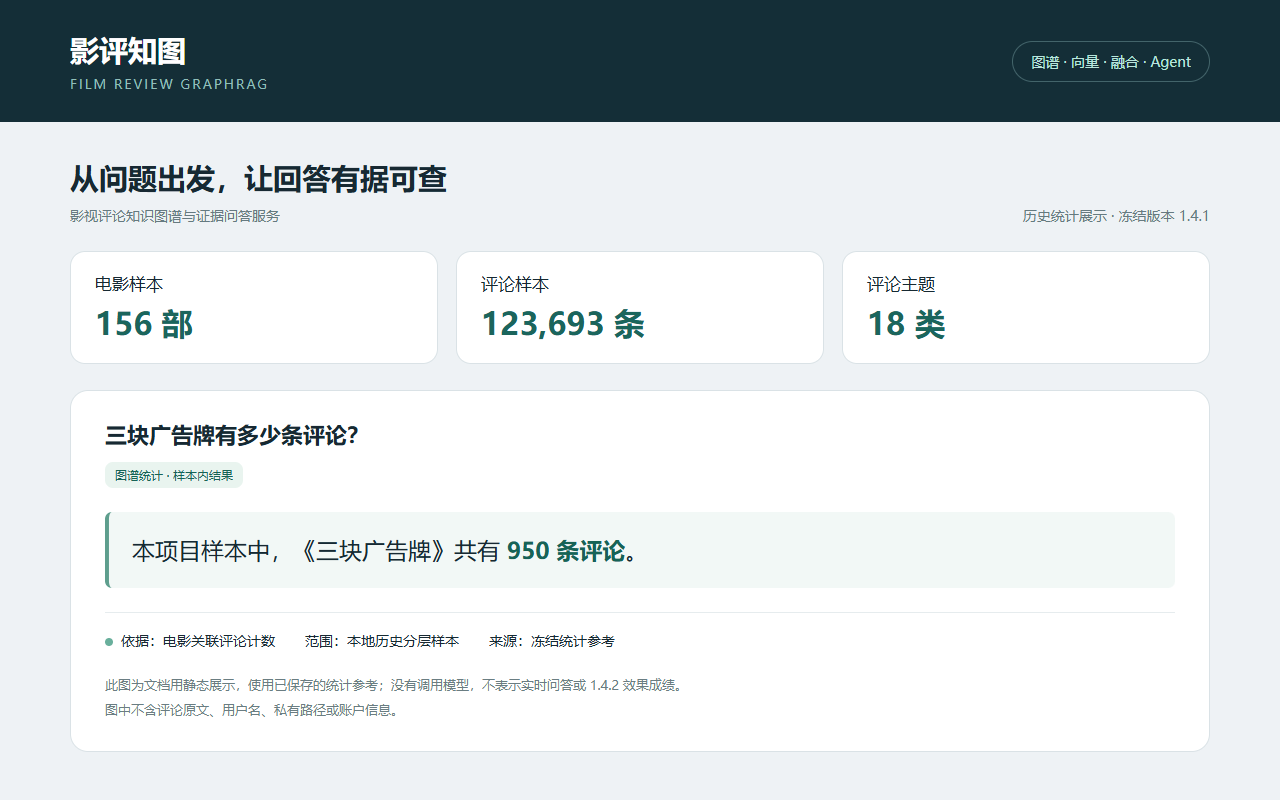
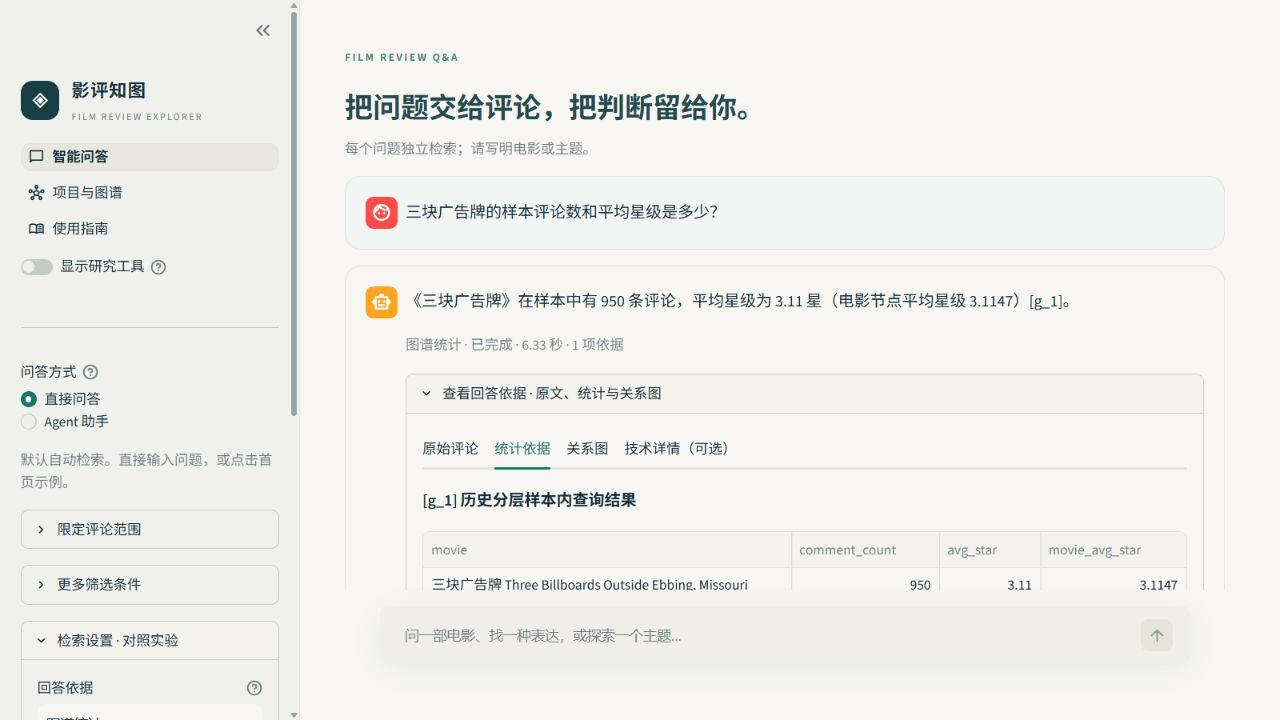
docs: polish public README

diff --git a/scripts/assisted_review.py b/scripts/assisted_review.py
@@ -118,7 +118,7 @@ def build_dataset():
               'selection': '168 QA + 60 Agent + 140 repair 0/2 + 108 short followups + 42 long followups',
               'queue_rules': 'all medium/low, needs_human, P, judge/assistant disagreements, known ambiguous cases, and fixed blind sample; never overwrite human files',
               'judge_model': Settings().deepseek_model, 'temperature': 0, 'max_tokens': 1100,
-              'provider_note': 'DeepSeek same-provider advisory judge, then Codex targeted audit; neither is a human score',
+              'provider_note': 'DeepSeek same-provider advisory judge, then targeted coding-assistant audit; neither is an independent human score',
               'code_sha256': file_hash(Path(__file__))}
     return records, config
 
@@ -234,7 +234,7 @@ def summarize(out=OUT):
             queue.append('序号与真实作者引用需核对')
         audit = overrides.get(record['key'], {})
         if audit.get('needs_human'):
-            queue.append('Codex复查需最终裁定')
+            queue.append('代码助手复查需最终裁定')
         if audit.get('grade') and audit['grade'] != assessment.get('grade'):
             queue.append('两次AI判断有分歧')
         labels.append({'key': record['key'], 'kind': record['kind'], 'mode': record['mode'],
@@ -255,7 +255,7 @@ def summarize(out=OUT):
                'usage': dict(usage), 'by_group': {f'{kind}/{mode}': dict(Counter(r['ai_grade'] or 'pending' for r in labels if r['kind'] == kind and r['mode'] == mode)) for kind, mode in sorted({(r['kind'], r['mode']) for r in labels})}}
     (out / 'summary.json').write_text(json.dumps(summary, ensure_ascii=False, indent=2), encoding='utf-8')
     lines = ['# AI辅助初评 · 待人工最终复核', '', f"已初评 {summary['ai_scored']}/518；待复核/抽查 {summary['needs_human']} 项（其中预先分层抽查 {summary['blind_sample']}）。", '',
-             '评分来源：项目配置的DeepSeek批量初评，Codex定向复查；全部属于AI判断。人工评分未完成，不能作为逐题人工准确率。原人工标签保持原样。', '',
+             '评分来源：DeepSeek批量初评，加代码助手定向复查；全部属于AI判断。作者复核尚未完成，不能作为逐题人工准确率。原人工标签保持原样。', '',
              '打开辅助复核页面可按疑难/抽查筛选，逐项确认或修改分数；原答案、完整证据、参考事实和历史均可展开。', '',
              '## 分组AI建议分布（不是人工准确率）', '', '|组别|Y|P|N|未评|', '|---|---:|---:|---:|---:|']
     for group, counts in summary['by_group'].items():

diff --git a/scripts/report_retrieval.py b/scripts/report_retrieval.py
@@ -114,7 +114,7 @@ def summarize(run):
     if summary_data['human_complete']:
         title='# 独立检索组件基线（人工复核完成）'
         batch_confirmed=any(row.get('confirmation_source')=='user_chat_batch_acceptance' for row in labels)
-        provenance=('评分由Codex/Sol提供，用户于2026年10月19日在聊天中确认整批接受，按AI辅助、人工确认口径报告；不是132项独立逐条人工评分，也未记录为网页逐项签认。' if batch_confirmed else '相关性分数已由评分人保存确认；若使用AI辅助，须保留对应评分来源。')
+        provenance=('相关性评分由代码助手初评，作者整批确认；按AI辅助、人工确认口径报告，不是132项独立逐条人工评分。' if batch_confirmed else '相关性分数已由评分人保存确认；若使用AI辅助，须保留对应评分来源。')
     elif summary_data['has_ai_pending']:
         title='# 独立检索组件基线（AI初评，待人工复核）'
         provenance='当前P@5/nDCG为AI建议分计算的预览值，不能表述为人工结果；逐题确认后报告会更新。'
@@ -131,7 +131,7 @@ def summarize(run):
         n='暂无完整评分' if row['candidate_pool_ndcg_at_5'] is None else f"{row['candidate_pool_ndcg_at_5']:.3f}"
         lines.append(f"| {row['mode']} | {row['scored_positions']}/{row['returned_positions']} | {row['human_scored']}/{row['returned_positions']} | {row['review_state']} | {p} | {n} | {row['facet_violation_positions']} | {row['empty_questions']} | {row['mean_vector_component_seconds']:.3f}/{row['mean_graph_candidate_seconds']:.3f} |")
     lines += [
-        '',f"去重题目/评论组合：{summary_data['unique_query_comment_pairs_to_review']}；200个候选位置各自保留来源，评分表区分网页保存和用户聊天整批确认。",'',
+        '',f"去重题目/评论组合：{summary_data['unique_query_comment_pairs_to_review']}；200个候选位置各自保留来源，评分表保留逐项保存与整批确认的来源区别。",'',
         '完全相关P@5只把2分计为相关；缺失位置计0。nDCG的理想排序由已返回候选构成，仅反映该候选集合的排序，不声称全库nDCG或Recall。','',
         '先看多条件语义的失误原因，再决定是否在相同候选和同一标签上进行CPU小模型重排对照。不得据时间、非空结果或词命中宣称重排提高了相关性。',
     ]

diff --git a/scripts/finalize_assisted_review.py b/scripts/finalize_assisted_review.py
@@ -78,10 +78,10 @@ def finalize():
     (OUT / 'summary.json').write_text(json.dumps(summary, ensure_ascii=False, indent=2), encoding='utf-8')
     lines = ['# 1.4.1 AI辅助评分与30份人工抽查', '',
              f"AI初评 {summary['ai_scored']}/518；已有人工评分 {summary['existing_human_preserved']} 份原样保留；本次需随机审核30份。", '',
-             '评分来自DeepSeek初评与Codex定向检查；尚未由用户完成本次抽查和最终签认。不得称为全量逐题人工测评。', '',
+             '评分来自DeepSeek初评与代码助手定向复查；作者尚未完成本次抽查和最终确认。不得称为全量逐题人工测评。', '',
              '抽查不按分数或是否成功挑选。按实验类别/模式分层，种子与记录清单已固定；用户缩小抽查范围发生在评分进行中，已如实登记。', '',
              '若抽查发现实质错误，先检查同类评分并修正；必要时扩展该类抽查，不为凑一致率改人工判断。30份只能作为抽查验证，不能证明其余所有分数正确。', '',
-             '原有123份人工分数优先保留于最终综合表；AI不同判断另列，原标签不覆盖。其余未逐题复核的建议分数，只有用户签认后才标为接受的AI评分。', '',
+             '原有123份人工分数优先保留于最终综合表；AI不同判断另列，原标签不覆盖。其余未逐题复核的建议分数，只有作者确认后才标为接受的AI评分。', '',
              '推荐论文口径：“采用AI辅助评分与人工审核相结合的综合评测，对新增AI评分随机抽查30份，并保留既有人工标签。”明确报告各部分数量，综合分数不冒充独立人工准确率。', '',
              '## AI建议分布', '', '|组别|Y|P|N|未评|', '|---|---:|---:|---:|---:|']
     for group, counts in summary['by_group'].items():

diff --git a/README.md b/README.md
@@ -1,51 +1,70 @@
 # 影评知图 · Film Review GraphRAG
 
-将影视评论知识图谱、语义检索与工具调用连接成可追溯的问答服务。
+[![tests](https://github.com/Phoeehnn/film-review-graphrag/actions/workflows/tests.yml/badge.svg?branch=main)](https://github.com/Phoeehnn/film-review-graphrag/actions/workflows/tests.yml?query=branch%3Amain)
+![Python](https://img.shields.io/badge/Python-3.11-3776AB?logo=python&logoColor=white)
+![Neo4j](https://img.shields.io/badge/Neo4j-Graph%20%2B%20Vector-4581C3?logo=neo4j&logoColor=white)
+![FastAPI](https://img.shields.io/badge/FastAPI-SSE-009688?logo=fastapi&logoColor=white)
 
-**代码供阅读与展示，数据不随仓库提供。** 当前公开导出版本：**1.4.2**。本仓库暂未添加许可证。
+**让影评里的观点，变成有据可查的回答。**
 
-![统计结果展示](assets/statistics-demo.png)
+基于历史影评构建的知识图谱问答服务：问题自动分流到图谱统计、语义检索或两者融合，回答附带可追溯的 Cypher 查询、统计行或评论证据。
 
-上图是文档用静态统计展示，数值来自冻结1.4.1样本参考，没有实时调用模型，也不表示1.4.2效果成绩。图中没有用户名或评论原文。
+**本科毕业设计扩展版本。** 在原有主题建模、双层情感分析和知识图谱基础上，新增混合检索与规则路由、六工具 Agent、多轮会话、Text-to-Cypher 安全检查与有界自纠错、FastAPI/SSE 服务、Docker 部署和版本化评测。
 
-## 能做什么
+**技术栈：** Python 3.11 · Neo4j 5（图谱 + 原生向量索引）· Sentence-Transformers · DeepSeek · FastAPI / SSE · Streamlit · Docker Compose · MCP · Redis（可选）· pytest
 
-- 图谱、向量、融合三路检索与可解释规则路由；统计和评论证据分别保留。
-- 六工具Agent、真实生成片段SSE、短期会话条件与引用追溯。
-- 只读Cypher检查、EXPLAIN预检、结果上限、超时及工具调用预算。
-- Neo4j原生向量索引、Docker Compose、MCP适配和可选Redis缓存/限流。
-- 复核工具代码可用；私有回答、评论证据与评分表不随仓库提供。无数据时页面显示空状态。
+[真实界面](#真实界面) · [架构与设计](#架构与设计) · [快速开始](#快速开始) · [实验口径](docs/RESULTS.md)
 
-## 架构
+## 主要结果
 
-![服务架构](assets/architecture.svg)
+*冻结 v1.4.1 · 人机结合评测 · [指标来源](results/v1.4.1/summary.json)；当前源码 v1.4.2 的变更另行记录。*
 
-|方式|适合的问题|边界|
+- **融合检索 80.36%，图谱 71.43%**：同一组 56 题强制走三条路径，比较严格完成率。
+- **Agent 54/60 任务完成**；20 题中 **18 题连续三次都成功**。这里按最终任务评分统计，不是工具轨迹通过率。
+- **短对话追问：带状态 75%–78%，无历史 2.8%**。无历史组本来就缺少上文信息；这是方法组合对照，不能当作旧版准确率或摘要的独立增益。
+- **让检索各司其职**：纯向量严格完成率为 8.93%。题集包含大量数量、排名和占比问题，少量相似评论不足以计算整体统计。强制纯向量也不能跨路兜底；这个分数体现本题集上的任务适配边界，不代表所有语义检索任务的质量。
+
+## 真实界面
+
+### 图谱问答：从回答追溯到统计证据
+
+![本机 v1.4.2 图谱统计问答、Cypher 与统计证据](assets/statistics-demo.png)
+
+本机 v1.4.2 真实服务截图：展示图谱模式的回答、Cypher 和统计证据。统计描述的是历史分层样本，不代表全站数据；截图仅演示功能，不是新增效果评测。
+
+### Agent：看得见的工具调用
+
+![本机 v1.4.2 Agent 电影概览与工具调用记录](assets/agent-demo.png)
+
+本机 v1.4.2 真实服务截图：电影概览问题调用 `get_movie_overview`，可展开核对工具参数与返回结果。两张截图均不包含评论原文、用户名或本机路径。
+
+## 架构与设计
+
+![路由、会话、Agent 与证据追溯架构](assets/architecture.svg)
+
+| 设计 | 做法与用途 |
+|---|---|
+| 三路检索 | 图谱负责准确统计，向量查找相近表达；融合保留统计行，并对评论候选去重、RRF 排序。 |
+| 规则自动路由 | 按问题类型选择路径，规则可解释、可复现；强制模式便于对照。 |
+| 六工具 Agent | 模型按需调用工具，参数校验、调用预算及执行记录在服务侧管理。 |
+| 多轮会话 | 固定条件、最近对话与摘要分开保存；撤销条件不被旧历史恢复。 |
+| 安全查询 | 每次生成或重写都经过静态安全检查和 EXPLAIN；有界重写最多两次。 |
+| 服务工程 | FastAPI + SSE 返回真实生成片段；Docker Compose 部署，MCP 复用工具，可选 Redis 缓存及限流。 |
+
+### 怎么选检索方式？
+
+| 方式 | 适合的问题 | 边界 |
 |---|---|---|
-|graph|数量、排名、比例、分布|从样本库实际计算|
-|vector|相近表达、具有某种观点的评论|不能根据少量评论计算全库统计|
-|hybrid|统计加评论解释|统计单独保留，评论候选用等权RRF融合|
-|auto|希望系统自动选择|固定规则路由，可手动强制模式|
+| `graph` | 数量、排名、比例、分布 | 从样本库实际计算 |
+| `vector` | 相近表达、具有某种观点的评论 | 不能根据少量评论计算整体统计 |
+| `hybrid` | 统计加评论解释 | 统计单独保留，评论候选用等权 RRF 融合 |
+| `auto` | 日常使用，希望系统选择 | 固定规则路由，可手动强制模式 |
 
-## 已有结果
-
-以下均属于**冻结1.4.1**，不是1.4.2全量成绩。56题各走三路，共168份回答，按人机结合方式评分：
-
-|策略|Y/56|严格完成率|有效回答率|
-|---|---:|---:|---:|
-|graph|40|71.43%|85.71%|
-|vector|5|8.93%|28.57%|
-|hybrid|45|80.36%|91.07%|
-
-综合评测共518份：保留123份既有人评、新增30份分层随机人工抽查、接受365份AI评分。它们不是518份独立逐题人工评分；30份抽查也不是独立留出验证。Agent任务54/60完成，三次都成功18/20。
-
-20道独立检索题、132个去重组合经AI评分和用户整批确认：向量/融合候选P@5为36.0%/35.0%，候选池nDCG@5为0.880/0.866。不支持“融合在所有指标上更好”的说法。
-
-原论文76%与这里80.36%的版本、题集及评分来源不同，**不能相减声称提升4.36个百分点**。原论文98%是有效回答率，不能当严格准确率。
-
-详见[实验口径](docs/RESULTS.md)和[聚合JSON](results/v1.4.1/summary.json)。公开题集是脱敏展示/开发用例，不附原始逐题答案或分数。
+复核工具代码保留；不提供私有回答、评论证据或评分表，无数据时显示空状态。
 
 ## 快速开始
+
+**代码供阅读与展示，数据不随仓库提供。** 本仓库暂未添加许可证。
 
 建议Python 3.11。首次安装依赖与下载模型需要网络；生成依赖DeepSeek API，不能完全离线运行。
 
@@ -67,7 +86,29 @@ docker compose up --build -d
 
 界面：http://127.0.0.1:18501；API：http://127.0.0.1:18000/docs。`/health`检查进程，`/ready`检查数据库、编码器、模型配置/连通性；就绪探针会请求提供商模型列表。
 
-## 安全设计与局限
+## 评测说明
+
+<details>
+<summary>展开：完整结果、评分来源与比较口径</summary>
+
+综合选集共 **518 份**：保留 123 份既有人评、30 份新增分层随机人工抽查、365 份作者确认接受的 AI 评分。问答采用 DeepSeek 批量初评并由代码助手定向复查；既有人工分数优先保留。**不是 518 份独立逐题人工评分**，抽查样本参与过 AI 复查，也不是独立留出验证。
+
+| 强制策略 | Y / 题数 | 严格完成率 | 有效回答率 |
+|---|---:|---:|---:|
+| graph | 40/56 | 71.43% | 85.71% |
+| vector | 5/56 | 8.93% | 28.57% |
+| hybrid | 45/56 | 80.36% | 91.07% |
+
+独立检索组件：20 题、132 个去重组合，由代码助手初评、作者整批确认，不是逐项独立人工评分。向量/融合候选 P@5 为 36.0%/35.0%，候选池 nDCG@5 为 0.880/0.866。未穷尽全库相关集合，不报告全库 Recall，不能据此声称融合在所有指标上更好。
+
+原论文 76% 与这里的 80.36% 在版本、题集和评分来源上不同，不能相减声称提升；原论文 98% 是有效回答率，不能当严格准确率。
+
+详见 [实验口径](docs/RESULTS.md) 与 [聚合 JSON](results/v1.4.1/summary.json)。公开题集是脱敏展示/开发用例，不附原始逐题答案或分数，也不能直接复现私有冻结成绩。
+
+</details>
+
+<details>
+<summary>展开：安全设计、适用范围与已知局限</summary>
 
 密钥只在后端环境配置；生成Cypher逐次执行静态安全检查、范围约束及EXPLAIN只读预检，限制50行、数据库10秒，问答/Agent也有总时限。评论按数据处理，引用必须对应真实证据。READ访问模式本身不是权限控制，详见[安全说明](docs/SECURITY.md)。
 
@@ -76,5 +117,9 @@ docker compose up --build -d
 - 正式批次没有自然触发重写，尚未观察到自纠错增益；摘要对照也不支持稳定节省token的结论。
 - 1.4.2修复多电影范围遗漏，只做定向验证；1.4.1完整成绩继续作为旧版本基线。
 - 无鉴权的本机演示配置不能直接视为公网生产配置。向量召回有不相关结果，证据校验覆盖有限，回答仍可能错误。
+
+</details>
+
+---
 
 [使用指南](docs/USER_GUIDE.md) · [数据格式](docs/DATA_FORMAT.md) · [技术变更](docs/CHANGELOG.md) · [脱敏开发记录](docs/开发记录.md) · [发布检查单](docs/public-release/发布检查单.md)

diff --git a/docs/RESULTS.md b/docs/RESULTS.md
@@ -2,14 +2,16 @@
 
 所有效果数字属于私有冻结1.4.1：56题三路168回答、修复预算0/1/2共210任务、短对话144轮、长对话48轮、Agent60任务，共630任务。综合评分选集为518份：168问答、60Agent、修复0/2各70、短追问108、长追问42。
 
-来源：123份既有人评、30份新增分层随机人工抽查、365份签认接受的AI评分。不是518份独立人工标签。30/30认可仅描述本次最终建议抽查，样本参与过AI复查，不是独立留出一致性实验。
+来源：123份既有人评、30份新增分层随机人工抽查、365份作者确认接受的AI评分。不是518份独立人工标签。30/30认可仅描述本次最终建议抽查，样本参与过AI复查，不是独立留出一致性实验。
 
 严格完成率Y/n，有效回答率(Y+P)/n；Agent为Y/N。图谱/向量/融合分别为71.43%/8.93%/80.36%（严格）及85.71%/28.57%/91.07%（有效）。统计题对纯向量不适配是强制路径比较的一部分，合理拒答与任务完成分开评分。
 
 原论文的76%严格准确率与98%有效率对应原题集和评分方法。它们与新版人机结合的80.36%不可直接作差。
 
-检索20题、两种候选各前5，共200位置/132去重组合；AI初评后由用户聊天整批接受，不是132项独立人工逐项评分。P@5仅把2分算完全相关，nDCG理想排序仅由已返回候选构成；没有穷尽全库相关集合，不报告真实全库Recall。向量P@5 36.0%、融合35.0%，不预设融合最好。
+检索20题、两种候选各前5，共200位置/132去重组合；代码助手初评后由作者整批确认，不是132项独立人工逐项评分。P@5仅把2分算完全相关，nDCG理想排序仅由已返回候选构成；没有穷尽全库相关集合，不报告真实全库Recall。向量P@5 36.0%、融合35.0%，不预设融合最好。
 
 正式自然任务没有发生第二次Cypher尝试，不能把预算组的波动解释为修复增益。多轮对照同时涉及条件状态与历史组织，不能把差异全归因于摘要；摘要token变化并不稳定。
 
 公开题集经过保守脱敏/合成处理，无数据与原回答，不能直接复现私有冻结题集成绩。只提供聚合JSON，不提供逐题分数。
+
+问答评分采用DeepSeek批量初评，加代码助手定向复查；已有人工标签优先保留，作者抽查并确认最终结果。检索相关性评分来自代码助手初评，不能混称为DeepSeek批量评分。

diff --git a/docs/public-release/发布检查单.md b/docs/public-release/发布检查单.md
@@ -6,11 +6,11 @@
 - v1.4.1来自冻结源码的脱敏导出：75项离线测试通过。
 - v1.4.2公开副本：收集99项，96通过、3项缺少私有复核数据而跳过，零失败和错误。
 - 额外十项检查覆盖环境凭据与四个复核页面的无数据状态；缺少数据时不会报错。
-- 当前文本经密钥、个人路径及实际评论16字符连续重合扫描；截图为无用户、无评论的静态统计展示。
+- 当前文本经密钥、个人路径及实际评论16字符连续重合扫描；截图已更新为本机1.4.2真实图谱统计与Agent调用界面，逐图核对无用户名、评论原文或本机路径。
 - 两版题面有合成改写，公开题集不能用于复现私有冻结成绩；仅公开聚合指标。
 - 518份为人机结合评测，不是518份独立逐题人工评分。旧论文76%与当前80.36%不可直接相减。
 - 原项目的真实只读查询已另行验证；公开副本未重新执行全量数据初始化或真实模型生成。
 - 未在另一台电脑实测；本机克隆测试不等于跨机器验收。
 - 暂无许可证；代码供阅读与展示，数据不随仓库提供。
 
-本机全新Git克隆离线测试：99项，96通过、3跳过、零失败和错误；导入路径已确认来自克隆目录。最终两提交/标签、全历史扫描、审查包哈希由内部发布回执保存。未配置远程、未push。
+本机全新Git克隆离线测试：99项，96通过、3跳过、零失败和错误；导入路径已确认来自克隆目录。初次导出的两个版本标签保持不变；后续CI配置和文档更新另行提交。全历史扫描与审查包哈希由发布回执保存。本次文档更新不push。

diff --git a/docs/TESTING.md b/docs/TESTING.md
@@ -2,7 +2,7 @@
 
 安装requirements-dev后运行`python -m pytest tests -q`。测试禁止外部TCP连接；允许本机事件循环需要的回环连接。模型Hub开启离线模式；不需要实际API密钥，不执行付费问答。
 
-测试中的图谱节点、评论、用户ID和证据是合成fixture，不是公开的原始用户记录。数据专用的AI复核输入和UI签认检查在没有私有文件时明确跳过；不要把跳过数隐藏或称为原私有完整测试全部通过。
+测试中的图谱节点、评论、用户ID和证据是合成fixture，不是公开的原始用户记录。数据专用的AI复核输入和UI最终确认检查在没有私有文件时明确跳过；不要把跳过数隐藏或称为原私有完整测试全部通过。
 
 核心覆盖只读安全、LIMIT、范围、规则路由、RRF、工具预算、会话、SSE、超时和多电影组合。公开副本额外通过配置/空页面检查的情况见发布检查单。
 
